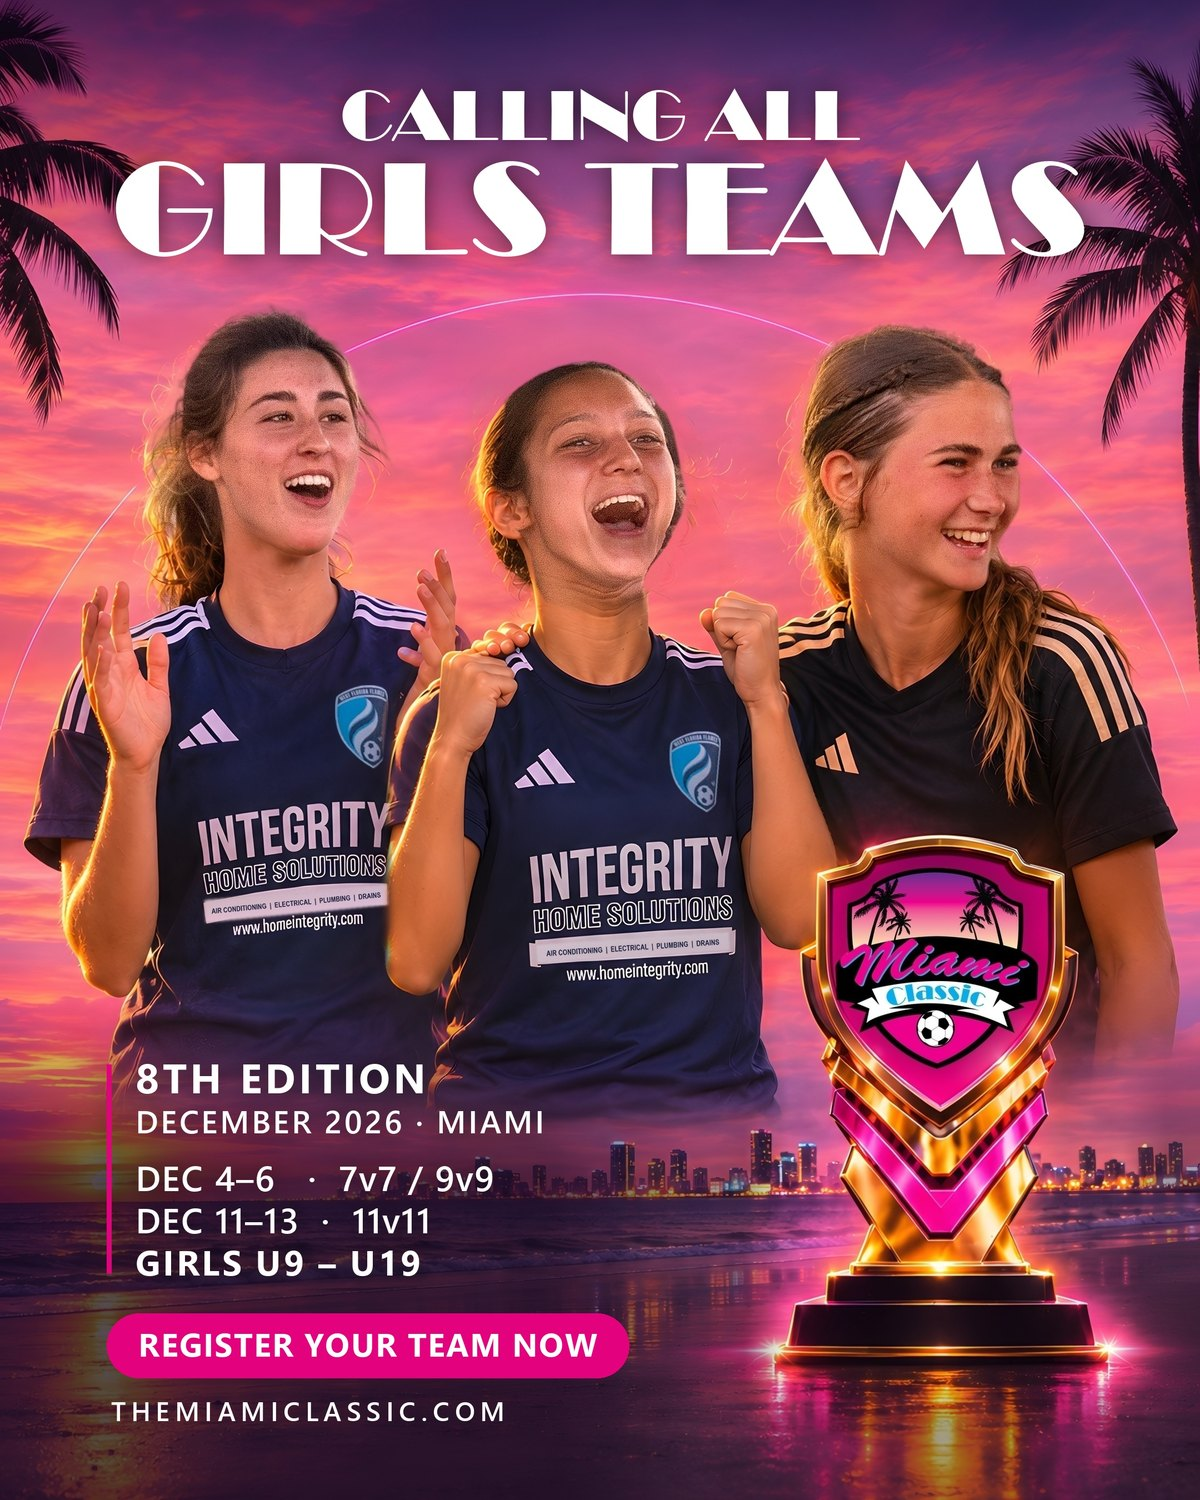
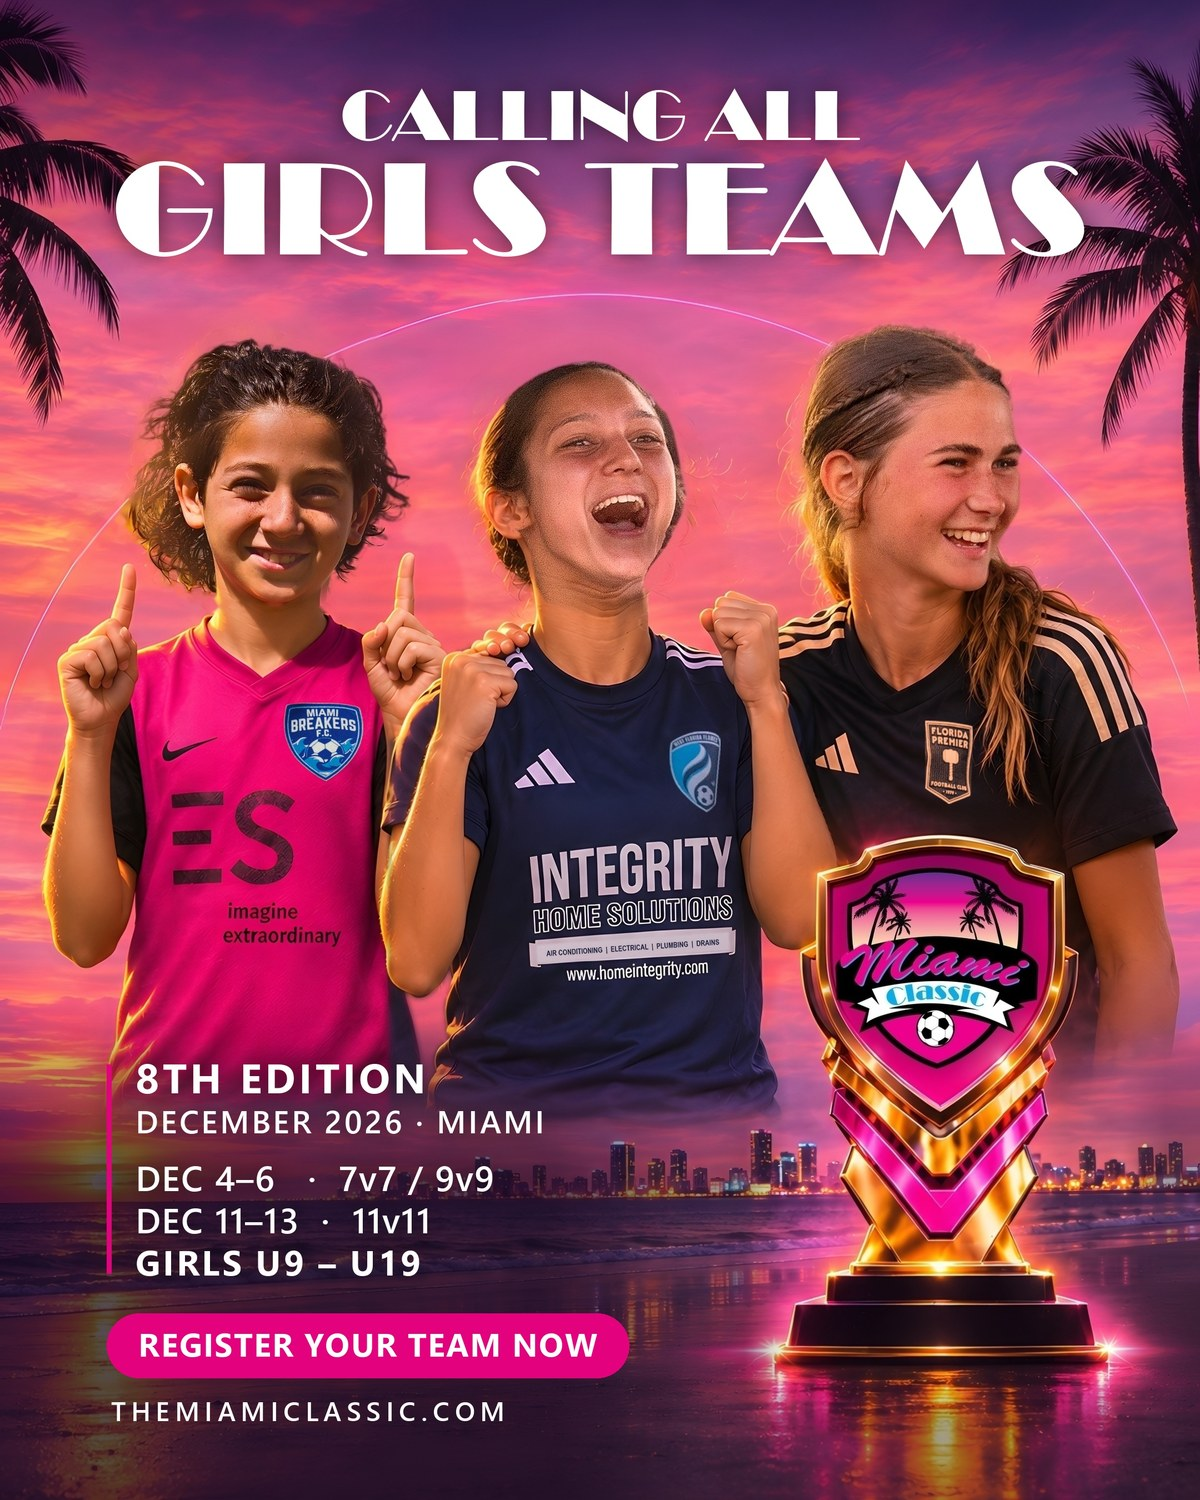
Cabecera actualizada: 3 niñas de equipos distintos (Miami Breakers, West Florida Flames, Florida Premier)

Changed region(s): [[0.0, 0.184, 0.4008, 0.736], [0.7708, 0.46, 0.8325, 0.552]]

diff --git a/correo_girls.html b/correo_girls.html
@@ -7,14 +7,14 @@
 <meta name="robots" content="noindex, nofollow">
 </head>
 <body style="margin:0;padding:0;background:#0d0a24;">
-<!-- 17-11-2026 · Correo "Calling all girls teams" (Constant Contact). Cabecera = post aprobado F_PLAYA_V3; cierre = foto REAL (MC_Foto_017).
+<!-- 17-11-2026 · Correo "Calling all girls teams" (Constant Contact). Cabecera = post F_PLAYA_V4 (18-11: 3 equipos distintos, pedido de Alessandro); cierre = foto REAL (MC_Foto_017).
      Al montarlo en CC: subir mc_girls_correo.jpg y mc_girls_foto_real.jpg a la librería y cambiar los src. -->
 <div style="display:none;max-height:0;overflow:hidden;opacity:0;color:#0d0a24;">Girls U9–U19 · Dec 4–6 &amp; Dec 11–13 in Miami. Register your team now.</div>
 <table role="presentation" width="100%" cellpadding="0" cellspacing="0" border="0" style="background:#0d0a24;">
   <tr><td align="center" style="padding:0;">
     <table role="presentation" width="600" cellpadding="0" cellspacing="0" border="0" style="width:100%;max-width:600px;background:#151036;">
       <tr><td style="padding:0;">
-        <a href="https://www.themiamiclassic.com/" target="_blank"><img src="mc_girls_correo.jpg" width="600" alt="Calling all girls teams · The Miami Classic 2026 · December 4–6 and 11–13 · Girls U9–U19" style="display:block;width:100%;max-width:600px;height:auto;border:0;"></a>
+        <a href="https://www.themiamiclassic.com/" target="_blank"><img src="mc_girls_correo.jpg?v=4" width="600" alt="Calling all girls teams · The Miami Classic 2026 · December 4–6 and 11–13 · Girls U9–U19" style="display:block;width:100%;max-width:600px;height:auto;border:0;"></a>
       </td></tr>
       <tr><td style="padding:32px 34px 6px 34px;font-family:Arial,Helvetica,sans-serif;color:#ffffff;">
         <p style="margin:0 0 14px 0;font-size:24px;line-height:30px;font-weight:bold;letter-spacing:.5px;">Calling all girls teams!</p>

diff --git a/index.html b/index.html
@@ -71,7 +71,7 @@
 
 <div class="datos">
   Envío propuesto: miércoles 18 de noviembre, 10:00 am (Miami) · 1.786 destinatarios ·
-  Cabecera: post aprobado (versión playa) · Foto final: foto real de un equipo de niñas en The Miami Classic.
+  Cabecera: post versión playa con niñas de 3 equipos distintos (actualizado 18-11) · Foto final: foto real de un equipo de niñas en The Miami Classic.
 </div>
 <script>
   // el iframe del computador toma el alto completo del correo (sin barra de desplazamiento)
